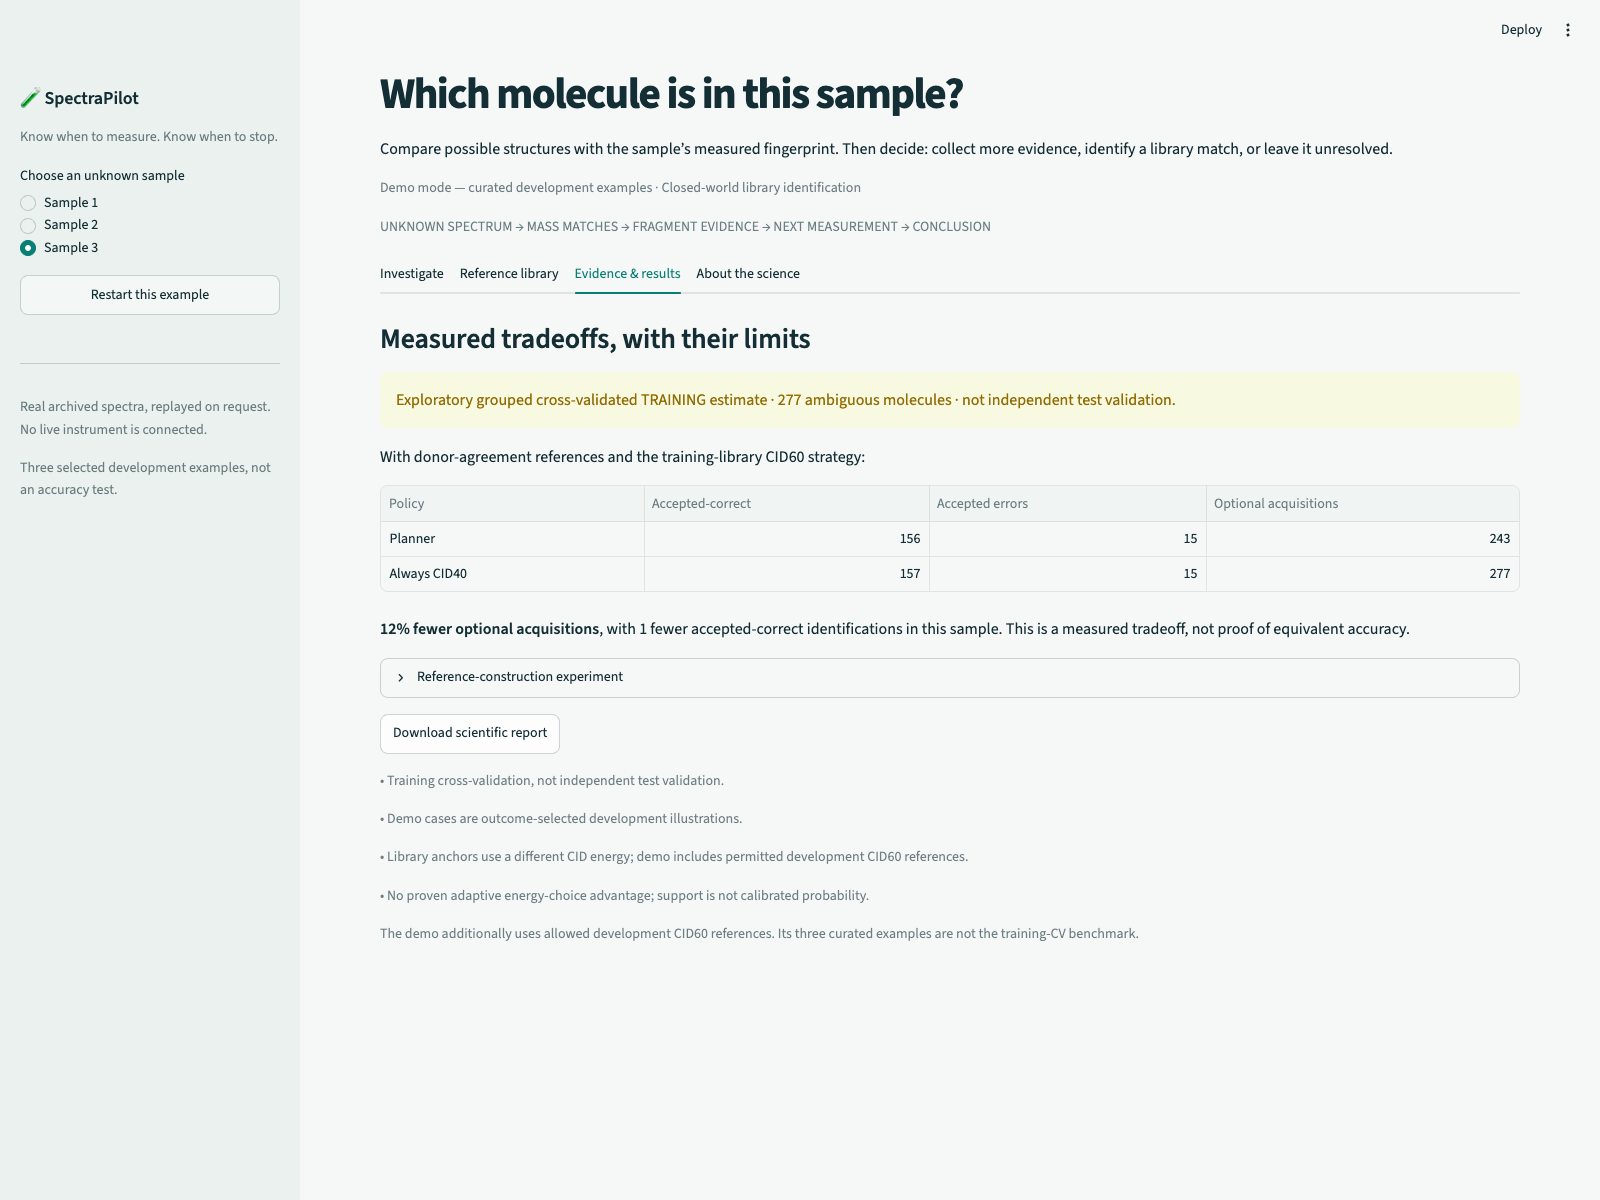
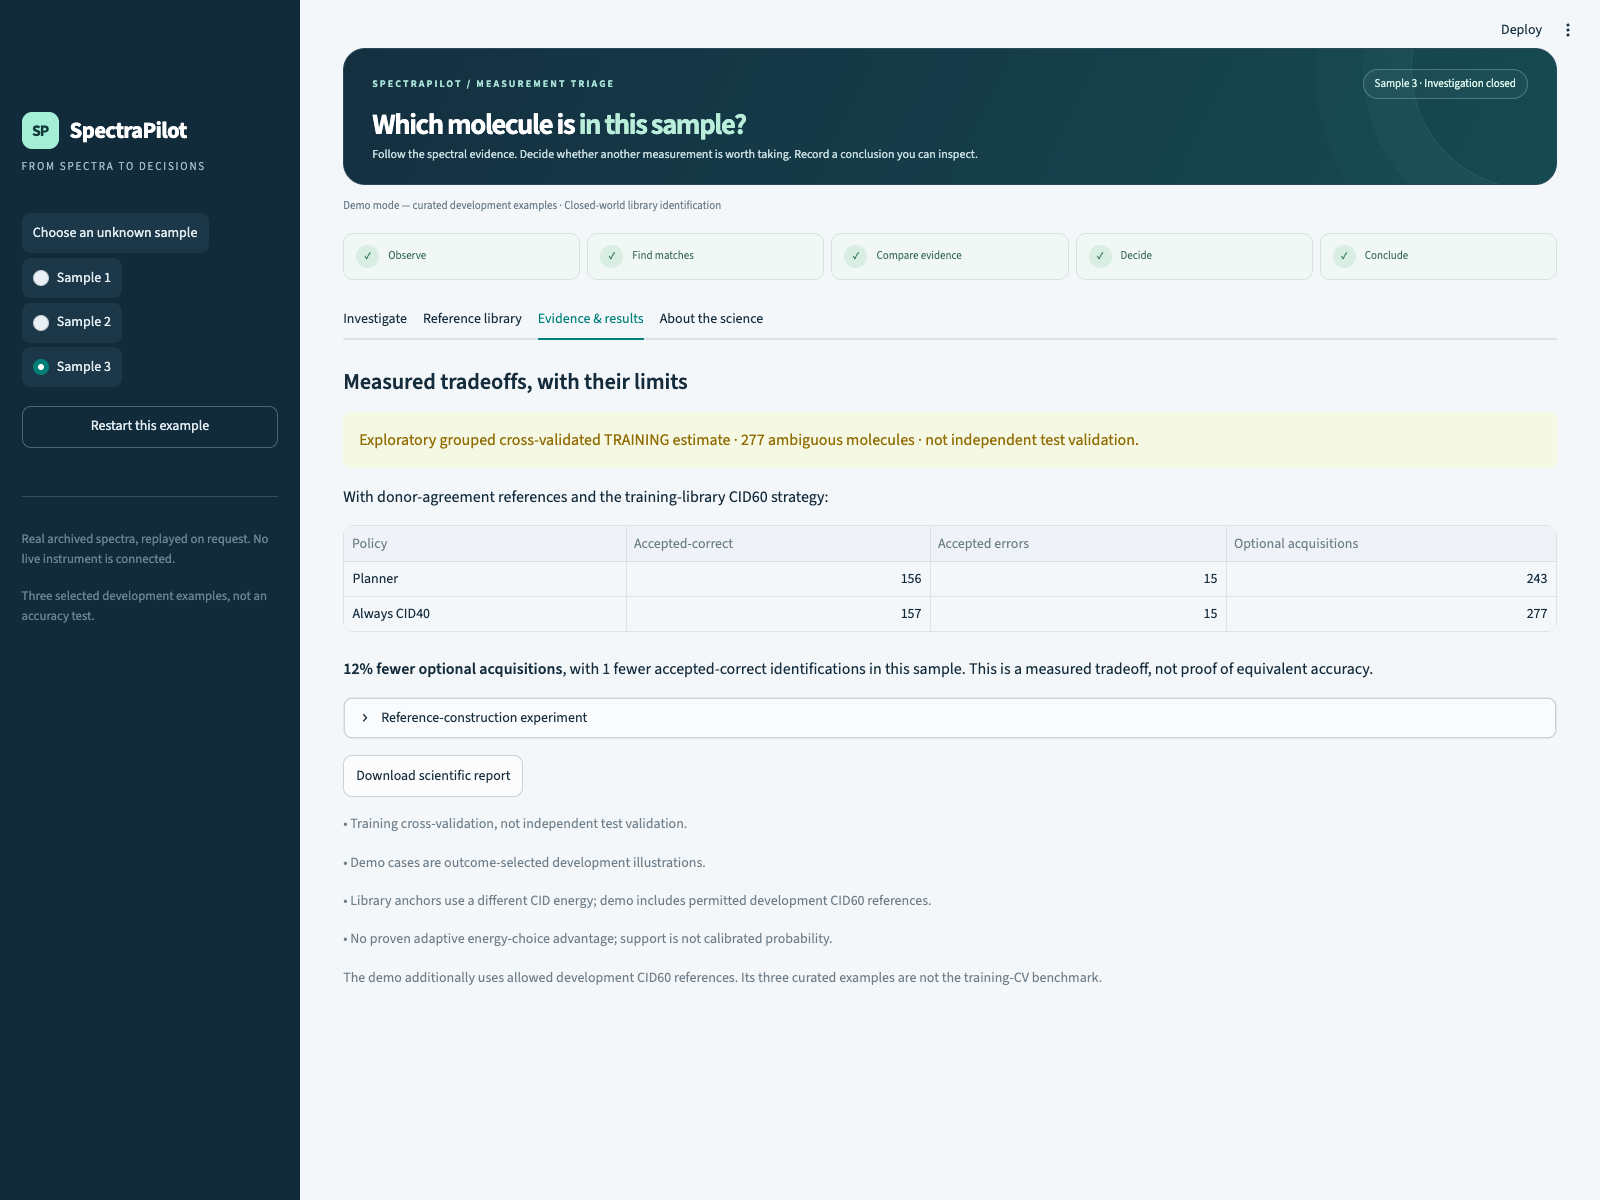
refresh judge screenshots and record visual rehearsal

diff --git a/HACKATHON_READINESS.md b/HACKATHON_READINESS.md
@@ -78,6 +78,12 @@ The current interaction is **unknown spectrum → mass matches → fragment comp
 
 Verification: **14 demo tests passed in 2.58 s** and **103 full-suite tests passed in 11.53 s**, with imports/config checks passing. The tests cover neutral API labels and the spectrum/search/comparison sequence. Python 3.11 also passed all 14 demo tests in 3.79 s. Headless Chrome completed the staged investigation for all three samples, browsed the reference library and downloaded both report formats. Ten screenshots and the three-minute judge script were refreshed. The existing upstream deprecation warning remains. Numerical science, frozen configurations and reports were not changed.
 
+### Visual presentation
+
+The demonstration uses a dark teal introduction and sidebar, an evidence-driven progress strip, a prominent measured-precursor panel, molecular candidate cards, and before/after structure cards. The header becomes compact after loading so the scientific content remains prominent. Leading-match highlights appear only after comparison. Green/amber outcome styling reflects the current decision rule; it does not assert source-identity correctness. The scan-saving card is shown only after stopping with no optional measurement. Layouts adapt to narrower screens and respect reduced-motion preferences.
+
+All spectra and structure drawings remain based on the existing data; no decorative spectrum or fabricated result was introduced. The visual update passed 14 demo tests and Ruff checks; the full locked research environment passed 103 tests in 11.56 s plus imports/config checks. Chrome verified all three outcomes, the five candidate images and two result images, progress states, report downloads and the narrow-screen layout. The original scientific configuration and reports were unchanged.
+
 ## Supported claims
 
 The application demonstrates archived measurement reveal, candidate rescoring, a stop decision, abstention, reversible observed-peak interventions and evidence exports. It can run from the committed development bundle without a full dataset rebuild.

diff --git a/README.md b/README.md
@@ -68,7 +68,7 @@ No benefit from adaptive CID versus EAD selection has been established: the stud
 - [Three-minute script and questions](docs/JUDGE_DEMO.md)
 - [Reproducibility and provenance](docs/DEMO_REPRODUCIBILITY.md)
 - [Readiness checklist](HACKATHON_READINESS.md)
-- Screens: [start](docs/screenshots/01-start.png), [observe](docs/screenshots/02-observe.png), [measure](docs/screenshots/03-measure.png), [export](docs/screenshots/04-report.png), [stop](docs/screenshots/05-stop.png), [abstain](docs/screenshots/06-abstain.png), [results](docs/screenshots/07-results.png), [initial fingerprint evidence](docs/screenshots/08-initial-evidence.png), [additional fingerprint evidence](docs/screenshots/09-additional-evidence.png), [reference library](docs/screenshots/10-library.png)
+- Screens: [welcome](docs/screenshots/00-welcome.png), [start](docs/screenshots/01-start.png), [observe](docs/screenshots/02-observe.png), [measure](docs/screenshots/03-measure.png), [export](docs/screenshots/04-report.png), [stop](docs/screenshots/05-stop.png), [abstain](docs/screenshots/06-abstain.png), [results](docs/screenshots/07-results.png), [initial fingerprint evidence](docs/screenshots/08-initial-evidence.png), [additional fingerprint evidence](docs/screenshots/09-additional-evidence.png), [reference library](docs/screenshots/10-library.png)
 
 ## Research workflow
 
